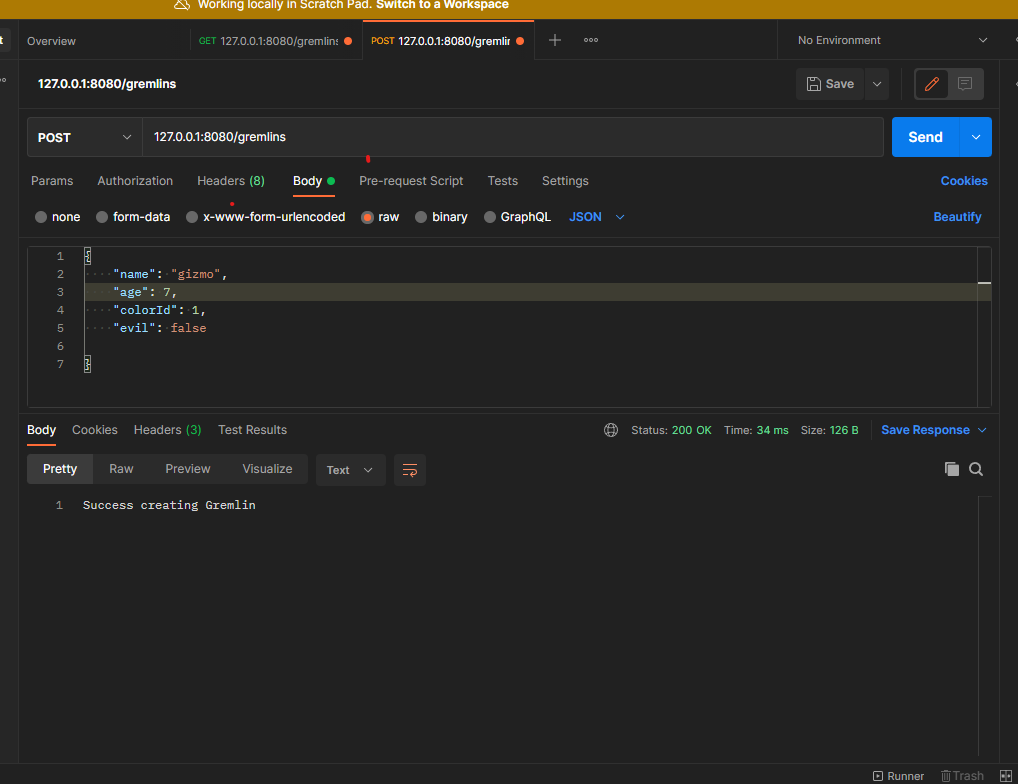
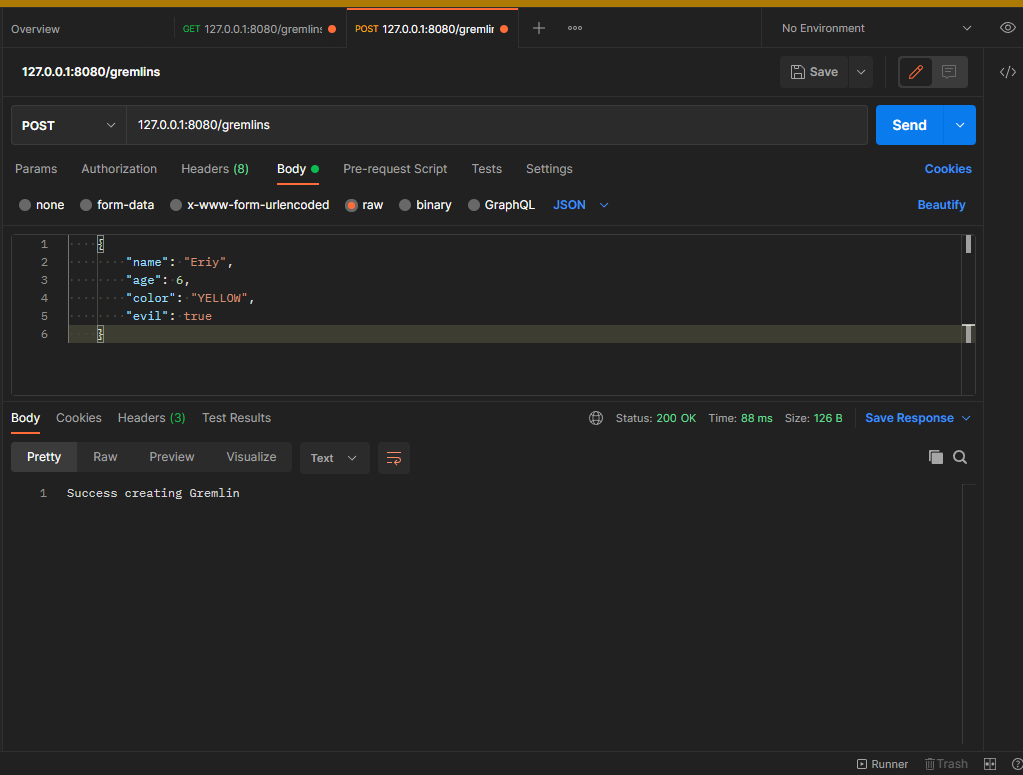
realized that my colors was actually an integer and wasen't connected to my enums, connected to enums, reran and recreated screenshots

diff --git a/src/main/java/com/revature/model/Gremlin.java b/src/main/java/com/revature/model/Gremlin.java
@@ -5,7 +5,7 @@ import java.util.Objects;
 public class Gremlin {
     private String name;
     private Integer age;
-    private Integer colorId;
+    private Color color;
     private boolean isEvil;
 
     public String getName() {
@@ -26,12 +26,12 @@ public class Gremlin {
         return this;
     }
 
-    public Integer getColorId() {
-        return colorId;
+    public Color getColor() {
+        return color;
     }
 
-    public Gremlin setColorId(Integer colorId) {
-        this.colorId = colorId;
+    public Gremlin setColor(Color color) {
+        this.color = color;
         return this;
     }
 
@@ -49,12 +49,12 @@ public class Gremlin {
         if (this == o) return true;
         if (o == null || getClass() != o.getClass()) return false;
         Gremlin gremlin = (Gremlin) o;
-        return isEvil == gremlin.isEvil && Objects.equals(name, gremlin.name) && Objects.equals(age, gremlin.age) && Objects.equals(colorId, gremlin.colorId);
+        return isEvil == gremlin.isEvil && Objects.equals(name, gremlin.name) && Objects.equals(age, gremlin.age) && color == gremlin.color;
     }
 
     @Override
     public int hashCode() {
-        return Objects.hash(name, age, colorId, isEvil);
+        return Objects.hash(name, age, color, isEvil);
     }
 
     @Override
@@ -62,7 +62,7 @@ public class Gremlin {
         return "Gremlin{" +
                 "name='" + name + '\'' +
                 ", age=" + age +
-                ", colorId=" + colorId +
+                ", color=" + color +
                 ", isEvil=" + isEvil +
                 '}';
     }

diff --git a/src/main/java/com/revature/repository/GremlinRepository.java b/src/main/java/com/revature/repository/GremlinRepository.java
@@ -18,7 +18,7 @@ public class GremlinRepository implements DAO<Gremlin> {
 
             while (rs.next()){
                 Gremlin gremlin = new Gremlin().setAge(rs.getInt("age"))
-                        .setColorId(rs.getInt("color_id"))
+                        .setColor(Color.values()[rs.getInt("color_id")])
                         .setEvil(rs.getBoolean("is_evil"))
                         .setName(rs.getString("name"));
 
@@ -39,7 +39,7 @@ public class GremlinRepository implements DAO<Gremlin> {
 
             stmt.setString(1, gremlin.getName());
             stmt.setInt(2, gremlin.getAge());
-            stmt.setInt(3, gremlin.getColorId());
+            stmt.setInt(3, gremlin.getColor().ordinal());
             stmt.setBoolean(4, gremlin.isEvil());
 
             int success = stmt.executeUpdate();
